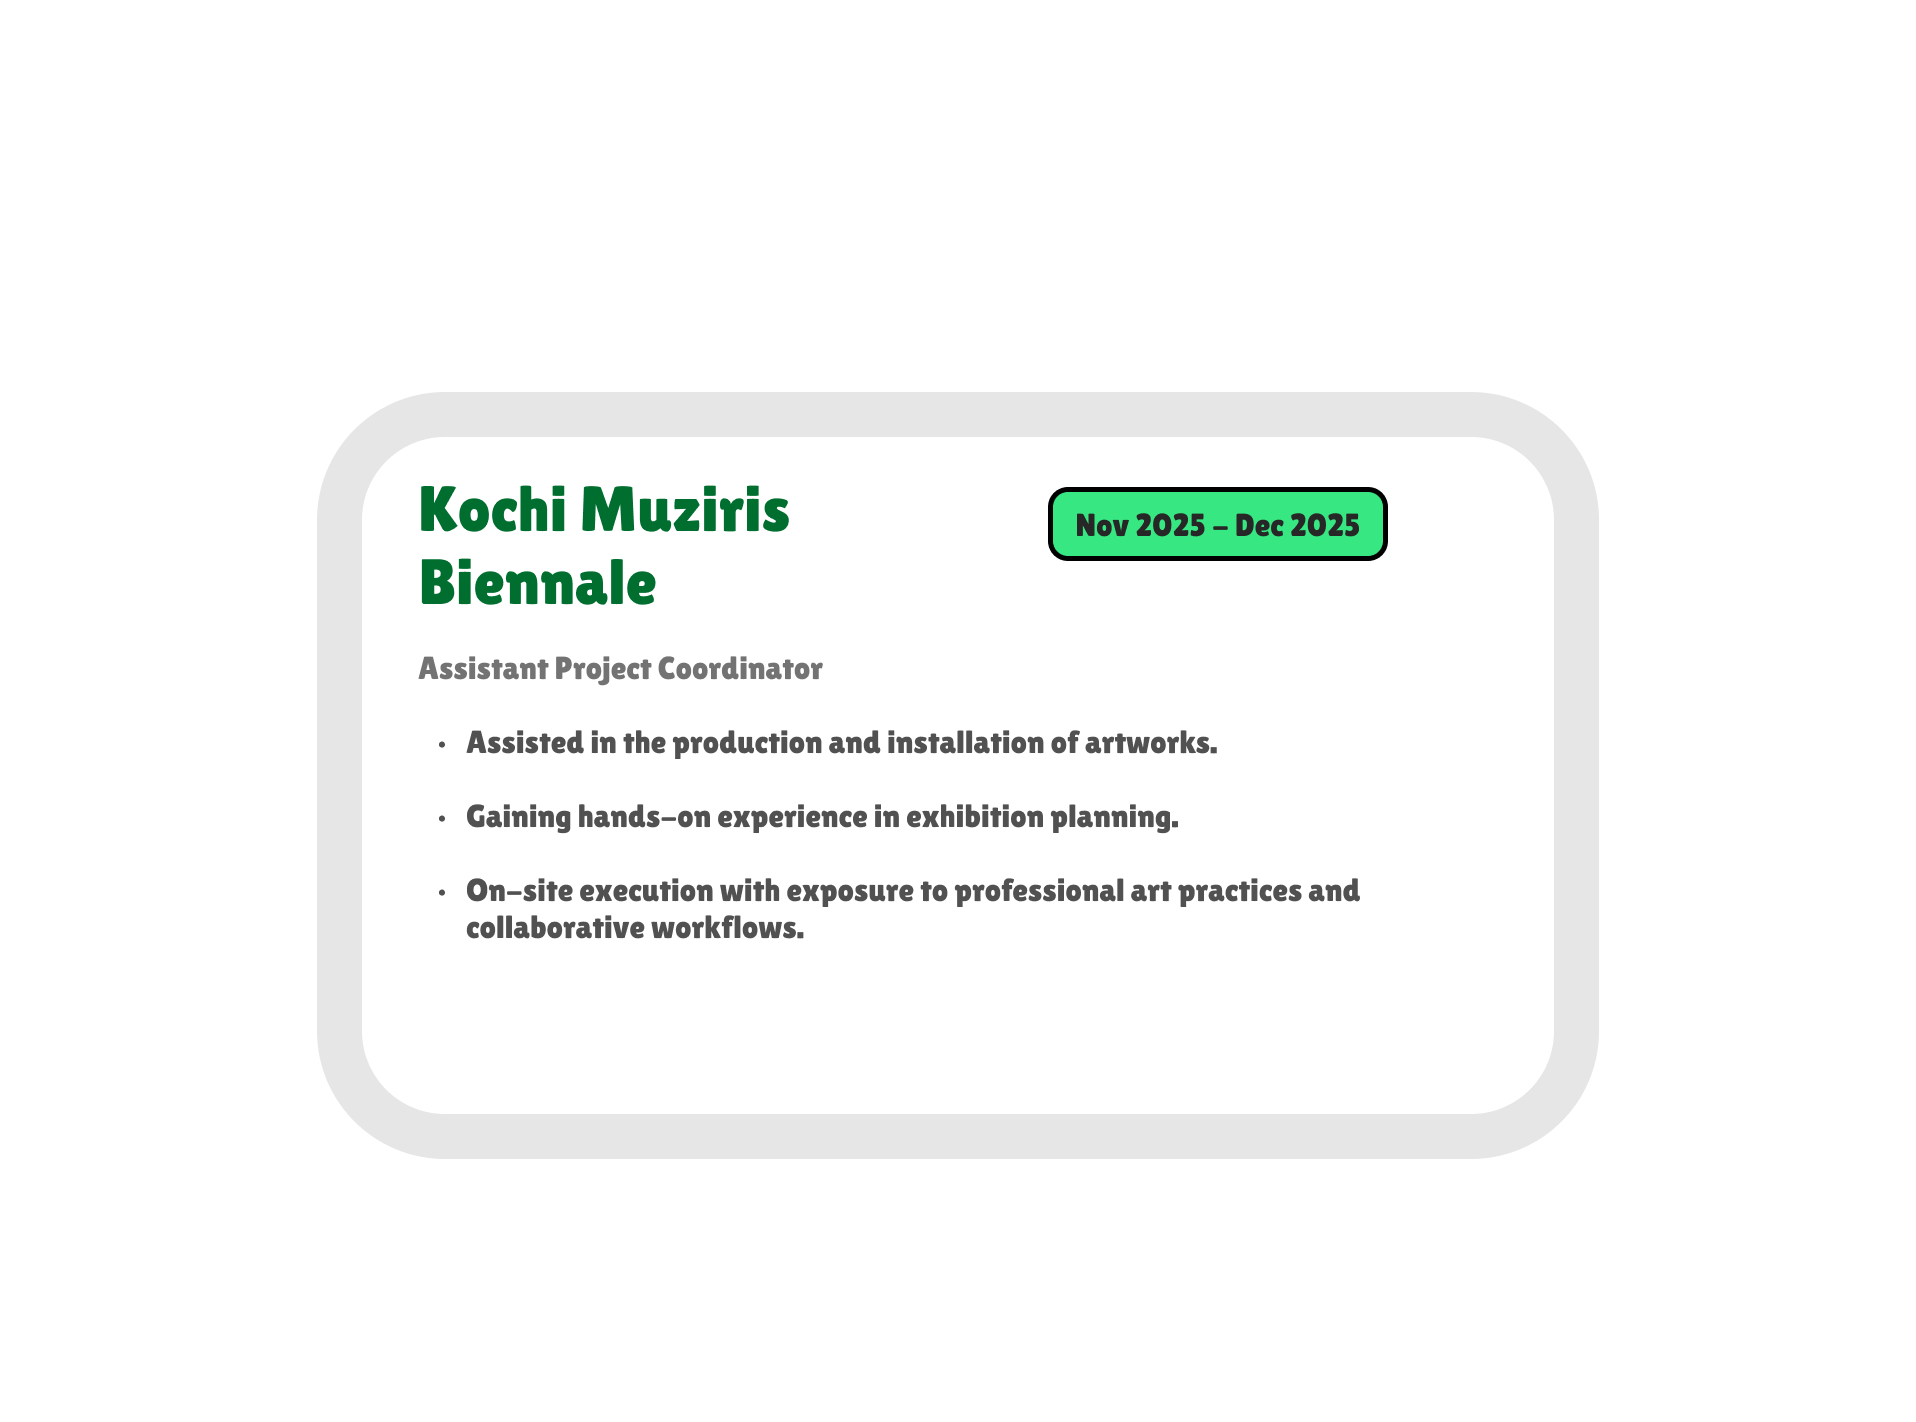
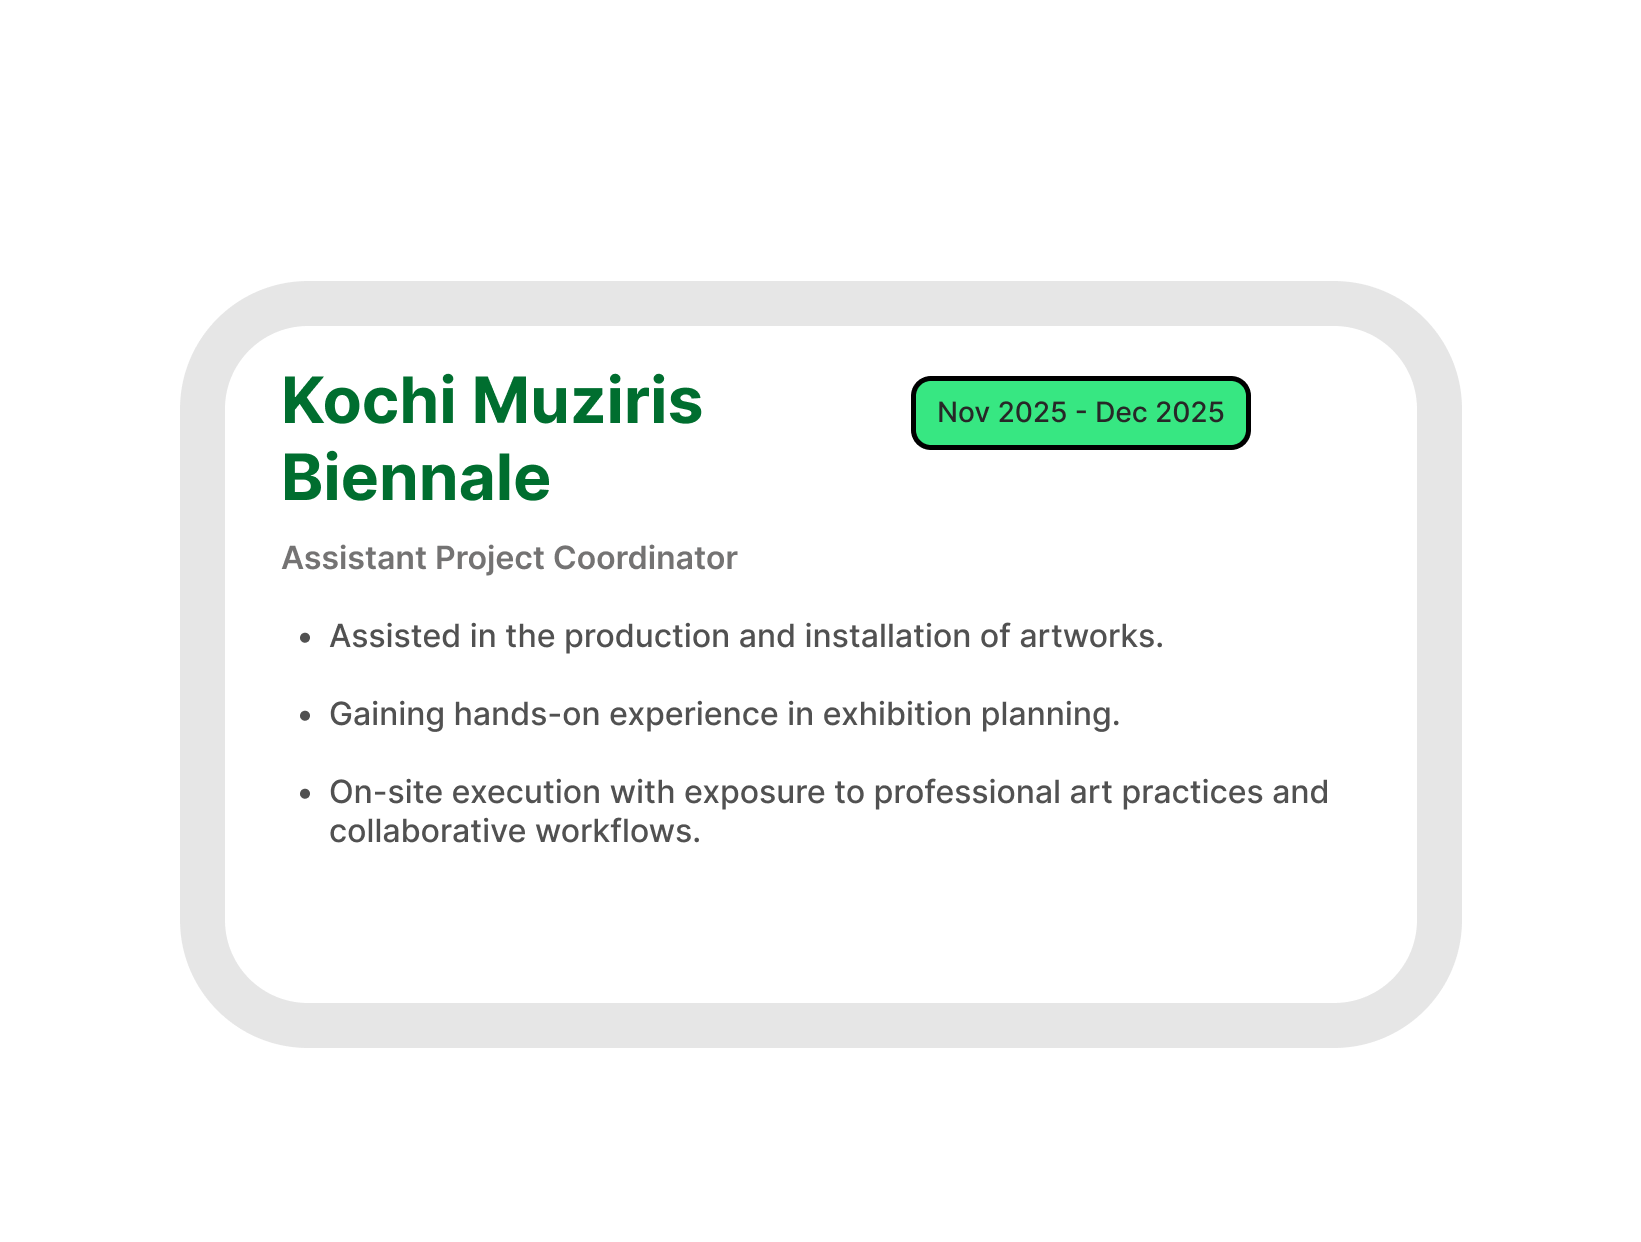
up

Changed region(s): [[0.0932, 0.2142, 0.9013, 0.8567]]

diff --git a/game.js b/game.js
@@ -148,10 +148,29 @@
   });
   cards.push({
     x: world.poleX + poleWidth - 280,
-    top: GROUND_TOP - px(1550) - cardH,
+    top: GROUND_TOP - px(1500) - cardH,
     w: cardW, h: cardH,
     img: 'game prototype work mydeck.png'
   });
+
+  // While flying up the pole, weave left/right around each experience card
+  // — a smooth, continuous zigzag (not a snap) that alternates sides card
+  // by card, so the path always threads the open space beside each card
+  // instead of cutting through it.
+  var charFlyW = px(CHAR_H);
+  var dodgeMargin = px(30);
+  var dodgeTransition = px(30);
+  var poleCenterX = world.poleX + poleWidth / 2;
+  var cardBands = cards.map(function (card) {
+    var cardCenterX = card.x + card.w / 2;
+    var dodgeLeft = cardCenterX > poleCenterX; // card bulges right -> weave left, and vice versa
+    var dodgeOffset = (dodgeLeft ? (card.x - dodgeMargin - charFlyW) : (card.x + card.w + dodgeMargin))
+      - (world.poleX + poleWidth * 0.55);
+    var rangeHigh = GROUND_TOP - card.top; // climbY at the card's lower edge
+    var rangeLow = GROUND_TOP - (card.top + card.h) - charFlyW; // card's upper edge, minus character height
+    return { low: rangeLow, high: rangeHigh, offset: dodgeOffset };
+  });
+  function smoothstep01(t) { t = clamp(t, 0, 1); return t * t * (3 - 2 * t); }
 
   var portalW = px(280);
   var portalH = portalW / (578 / 225);
@@ -401,10 +420,34 @@
         state = moving ? 'walk' : 'idle';
       }
     } else {
-      charX = world.poleX + poleWidth * 0.55;
+      var baseFlyX = world.poleX + poleWidth * 0.55;
       var climbY = dCurrent - world.horizontalDistance;
       charTop = (GROUND_TOP - charH) - climbY;
-      charX += Math.sin(climbY / 140) * px(46);
+
+      // Each card pulls the flight path toward its own fixed dodge offset
+      // with a smooth (continuous-derivative) weight that rises and falls
+      // across its height — never a hard switch — so blending several
+      // cards' pulls together always reads as one continuous zigzag,
+      // never a snap or a teleport.
+      var offsetSum = 0, maxWeight = 0;
+      for (var bi = 0; bi < cardBands.length; bi++) {
+        var band = cardBands[bi];
+        var w;
+        if (climbY < band.low - dodgeTransition || climbY > band.high + dodgeTransition) {
+          w = 0;
+        } else if (climbY < band.low) {
+          w = smoothstep01((climbY - (band.low - dodgeTransition)) / dodgeTransition);
+        } else if (climbY > band.high) {
+          w = 1 - smoothstep01((climbY - band.high) / dodgeTransition);
+        } else {
+          w = 1;
+        }
+        offsetSum += w * band.offset;
+        if (w > maxWeight) maxWeight = w;
+      }
+      charX = baseFlyX + offsetSum;
+      // gentle flutter, fading out as the zigzag swing takes over
+      charX += Math.sin(climbY / 140) * px(46) * (1 - maxWeight);
       state = 'fly';
     }
 
